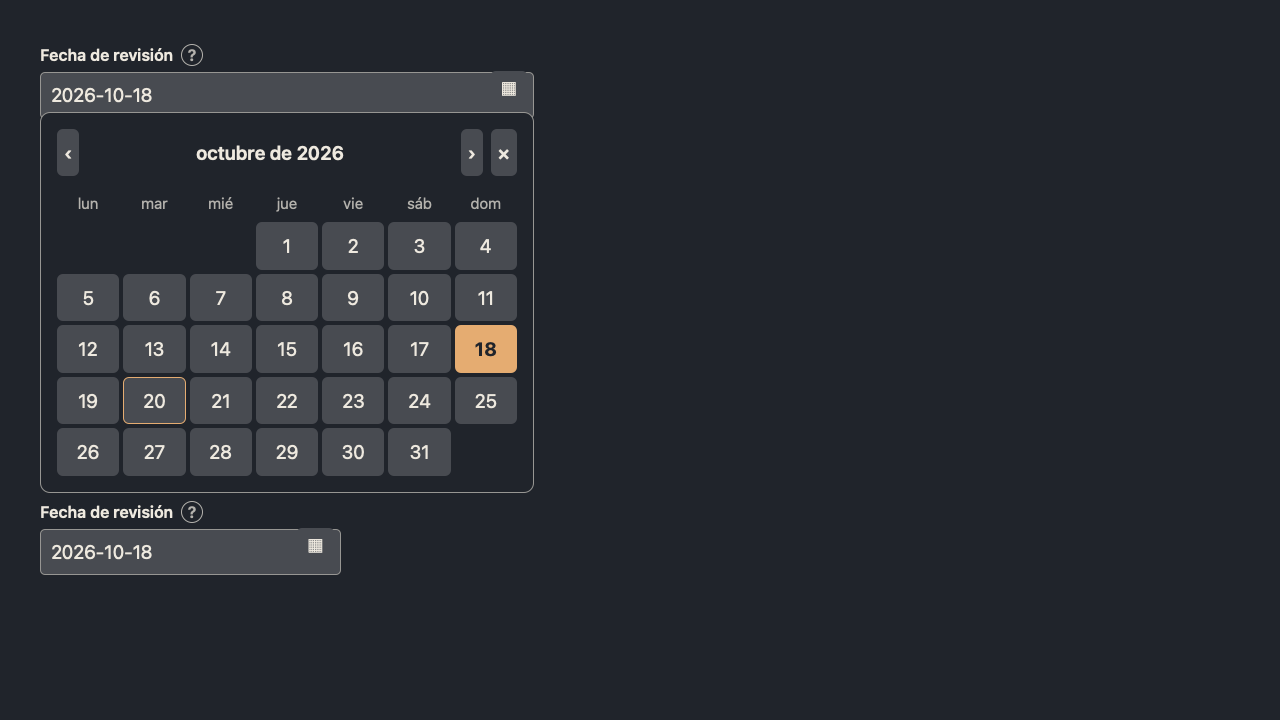
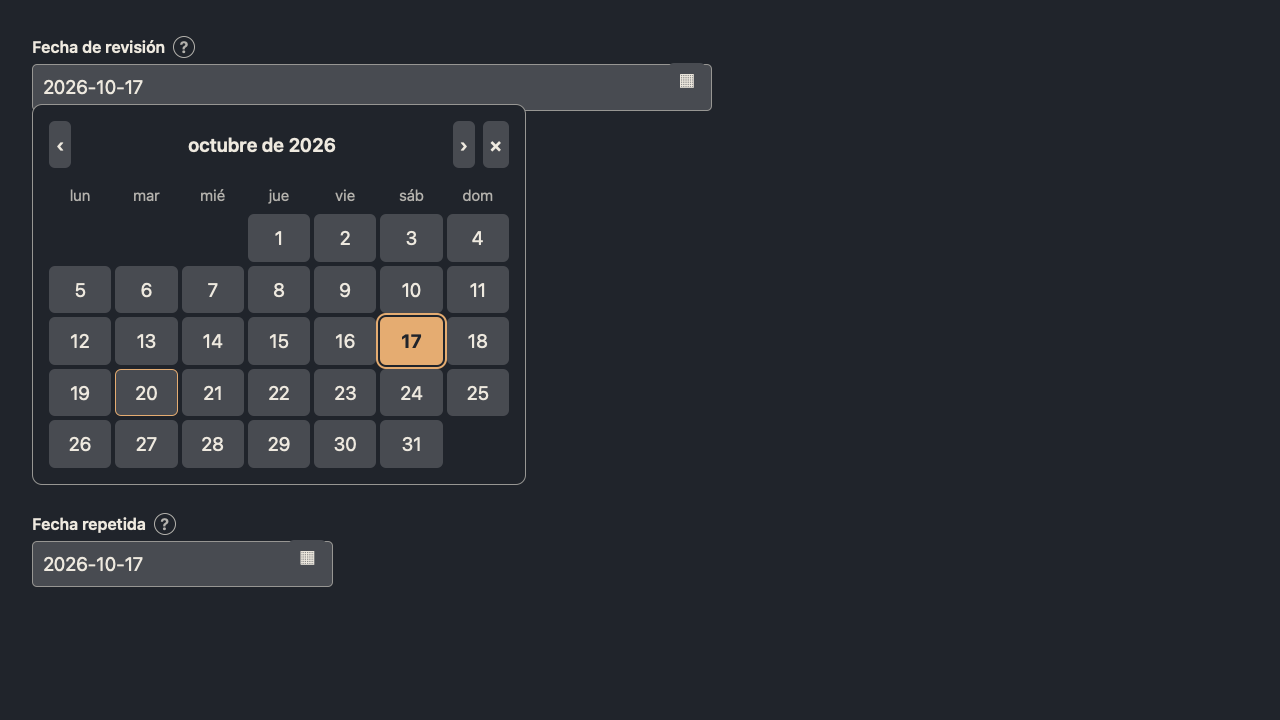
#232 Fixed: respect protected forms and refresh calendar validation

Changed region(s): [[0.0, 0.0611, 0.5625, 0.825], [0.0625, 0.2444, 0.125, 0.3056]]

diff --git a/doc/validation/form-calendar/preview.html b/doc/validation/form-calendar/preview.html
@@ -1,0 +1,24 @@
+<!doctype html>
+<html lang="es"><meta charset="utf-8"><meta name="viewport" content="width=device-width,initial-scale=1">
+<title>Leonardo calendar renderer validation</title>
+<link rel="stylesheet" href="../../../Sources/LeonardoRender/Resources/leonardo-forms.css">
+<style>
+:root { --ld-background: #ede0bc; --ld-text: #171710; --ld-accent: #8f3824; }
+:root.dark { --ld-background: #20242b; --ld-text: #eee9df; --ld-accent: #e5ac71; }
+* { box-sizing: border-box; }
+body { margin: 32px; background: var(--ld-background); color: var(--ld-text); font: 20px system-ui; }
+main { max-width: 680px; }
+</style>
+<main id="root"></main>
+<script src="../../../Sources/LeonardoRender/Resources/leonardo-calendar.js"></script>
+<script src="../../../Sources/LeonardoRender/Resources/leonardo-forms.js"></script>
+<script>
+if (new URLSearchParams(location.search).get('theme') === 'dark') document.documentElement.classList.add('dark');
+const root = document.querySelector('main');
+LeonardoForms.begin({allowsFormFilling:true,source:'validation',leonardo:{document:{locale:'es'}}},root);
+const row = document.createElement('p'); row.className = 'leonardo-form-row'; root.append(row);
+row.append(LeonardoForms.field('review',{type:'date',label:'Fecha de revisión'},'2026-10-17'));
+const next = document.createElement('p'); root.append(next);
+next.append(LeonardoForms.field('review',{type:'date',label:'Fecha repetida'},'2026-10-17'));
+root.querySelector('.leonardo-calendar-toggle').click();
+</script></html>

diff --git a/Tests/LeonardoRenderTests/FormCalendarTests.swift b/Tests/LeonardoRenderTests/FormCalendarTests.swift
@@ -41,11 +41,17 @@ final class FormCalendarTests: XCTestCase {
           const escaped = panel.hidden;
           LeonardoForms.setExporting(true);
           const exported = getComputedStyle(root.querySelector('.leonardo-calendar-toggle')).display === 'none';
-          return {leap, keyboard, saved, synchronized, draft, themed, escaped, exported};
+          LeonardoForms.begin({allowsFormFilling: false}, root);
+          const locked = LeonardoForms.field('locked', {type: 'date'}, '2024-02-29'); root.append(locked);
+          const lockedInput = locked.querySelector('input');
+          locked.querySelector('.leonardo-calendar-toggle').click();
+          lockedInput.dispatchEvent(new KeyboardEvent('keydown', {key: 'ArrowDown', altKey: true, bubbles: true}));
+          const protectedDate = locked.querySelector('.leonardo-calendar-toggle').disabled && locked.querySelector('.leonardo-calendar').hidden && lockedInput.value === '2024-02-29' && Object.keys(LeonardoForms.snapshot().changes).length === 0;
+          return {leap, keyboard, saved, synchronized, draft, themed, escaped, exported, protectedDate};
         })()
         """) as? [String: Bool]
         let checks = try XCTUnwrap(result)
         for (name, passed) in checks { XCTAssertTrue(passed, name) }
-        XCTAssertEqual(checks.count, 8)
+        XCTAssertEqual(checks.count, 9)
     }
 }

diff --git a/Sources/LeonardoRender/Resources/leonardo-calendar.js b/Sources/LeonardoRender/Resources/leonardo-calendar.js
@@ -29,6 +29,7 @@
       panel.setAttribute("role", "group");
       panel.setAttribute("aria-label", words[0]);
       const toggle = button("▦", words[0], () => panel.hidden ? open() : close());
+      toggle.disabled = input.disabled;
       toggle.className = "leonardo-calendar-toggle";
       toggle.setAttribute("aria-controls", panel.id); toggle.setAttribute("aria-expanded", "false");
       const header = document.createElement("span"); header.className = "leonardo-calendar-header";
@@ -59,6 +60,7 @@
           const date = new Date(shown); date.setDate(number);
           const value = iso(date);
           const day = button(String(number), new Intl.DateTimeFormat(locale, {dateStyle: "full"}).format(date), () => {
+            if (input.disabled) return;
             input.value = value; input.dispatchEvent(new Event("input", {bubbles: true}));
             close(); input.focus();
           });
@@ -77,6 +79,7 @@
         if (focusDate) grid.querySelector(`[data-date="${focusDate}"]`)?.focus();
       }
       function open() {
+        if (input.disabled) return;
         closeActive?.(); closeActive = close;
         const selected = parse(input.value) || new Date();
         shown = new Date(selected); shown.setDate(1);

diff --git a/Sources/LeonardoRender/Resources/leonardo-forms.js b/Sources/LeonardoRender/Resources/leonardo-forms.js
@@ -60,13 +60,9 @@
     } else if (field.type !== "multiline") {
       input.type = ["email", "url"].includes(field.type) ? field.type : "text";
       if (field.type === "number") input.inputMode = "decimal";
-      if (field.type === "date" && value && !/^\d{4}-\d\d-\d\d$/.test(String(value))) input.type = "text";
     }
     if (field.type !== "checkbox") {
       input.value = value === null || value === undefined ? "" : String(value);
-      if (field.type === "date" && value && input.value !== String(value)) {
-        input.type = "text"; input.value = String(value);
-      }
     }
     if (field.placeholder) input.placeholder = field.placeholder;
     input.setAttribute("aria-required", String(!!field.required));

diff --git a/doc/validation/form-calendar/README.md b/doc/validation/form-calendar/README.md
@@ -2,14 +2,24 @@
 
 Tracking: [#232](https://github.com/PinedaTec-EU/LeonardoMD/issues/232).
 
-The two captures show the actual bundled form/calendar JavaScript and CSS in a synthetic isolated HTML fixture served at localhost:8932 using Playwright WebKit, 1280 × 720, Spanish locale, on 2026-10-20. These are renderer fixture captures, not captures of the packaged macOS application. Warm and dark palettes are supplied through the same `--ld-background`, `--ld-text` and `--ld-accent` tokens used by the document renderer. The later resource-loading correction affects the native HTML shell, not these captured assets.
+## Reproduce the renderer preview
+
+From the PR checkout, run `python3 -m http.server 8933 --bind 127.0.0.1` and open `http://127.0.0.1:8933/doc/validation/form-calendar/preview.html`. Add `?theme=dark` for dark mode. The fixture references the actual bundled form/calendar JavaScript and CSS directly, with synthetic data and Spanish locale. It opens the calendar with October 17, 2026 selected and exposes a duplicate date field for synchronization checks. The exact reviewed SHA and capture binding are recorded in the PR evidence comment.
+
+Implementation-owned captures made on 2026-10-20 in Playwright WebKit:
+
+- `light.png`: 1280 × 720, warm document palette, selected day focused.
+- `dark.png`: 1280 × 720, dark document palette, selected day focused.
+- `narrow.png`: 390 × 844, dark document palette; document scroll width and viewport both 390px, calendar width 326px.
+
+These are actual renderer fixture captures, not packaged macOS application captures. The fixture supplies palette tokens rather than changing the installed app. This change affects bundled form resources and their registration; no app startup or packaging code changes. No installed app was replaced or terminated.
 
 The calendar expands in document flow to avoid clipping inside authored tables. It uses a 26em preferred width constrained by available space; day targets scale with document text. ISO date text remains editable so incomplete drafts are preserved.
 
-`FormCalendarTests` loads the actual bundled shell in a real WKWebView. It verifies leap-year month length, arrow navigation across months, date selection and snapshot, duplicate-field synchronization, incomplete draft preservation, active theme background, Escape dismissal and export suppression. The existing `InlineFormTests` covers save, reopen and export through the app controller.
-
-Native packaged-app visual acceptance and independent PR judgment remain pending. No installed app was replaced or terminated.
+`FormCalendarTests` loads the actual bundled shell in a real WKWebView. It verifies leap-year month length, arrow navigation across months, date selection and snapshot, duplicate-field synchronization, incomplete draft preservation, active theme background, Escape dismissal, export suppression and disabled Preview controls. The existing `InlineFormTests` covers save, reopen and export through the app controller.
 
 ![Warm theme](light.png)
 
 ![Dark theme](dark.png)
+
+![Narrow dark viewport](narrow.png)
